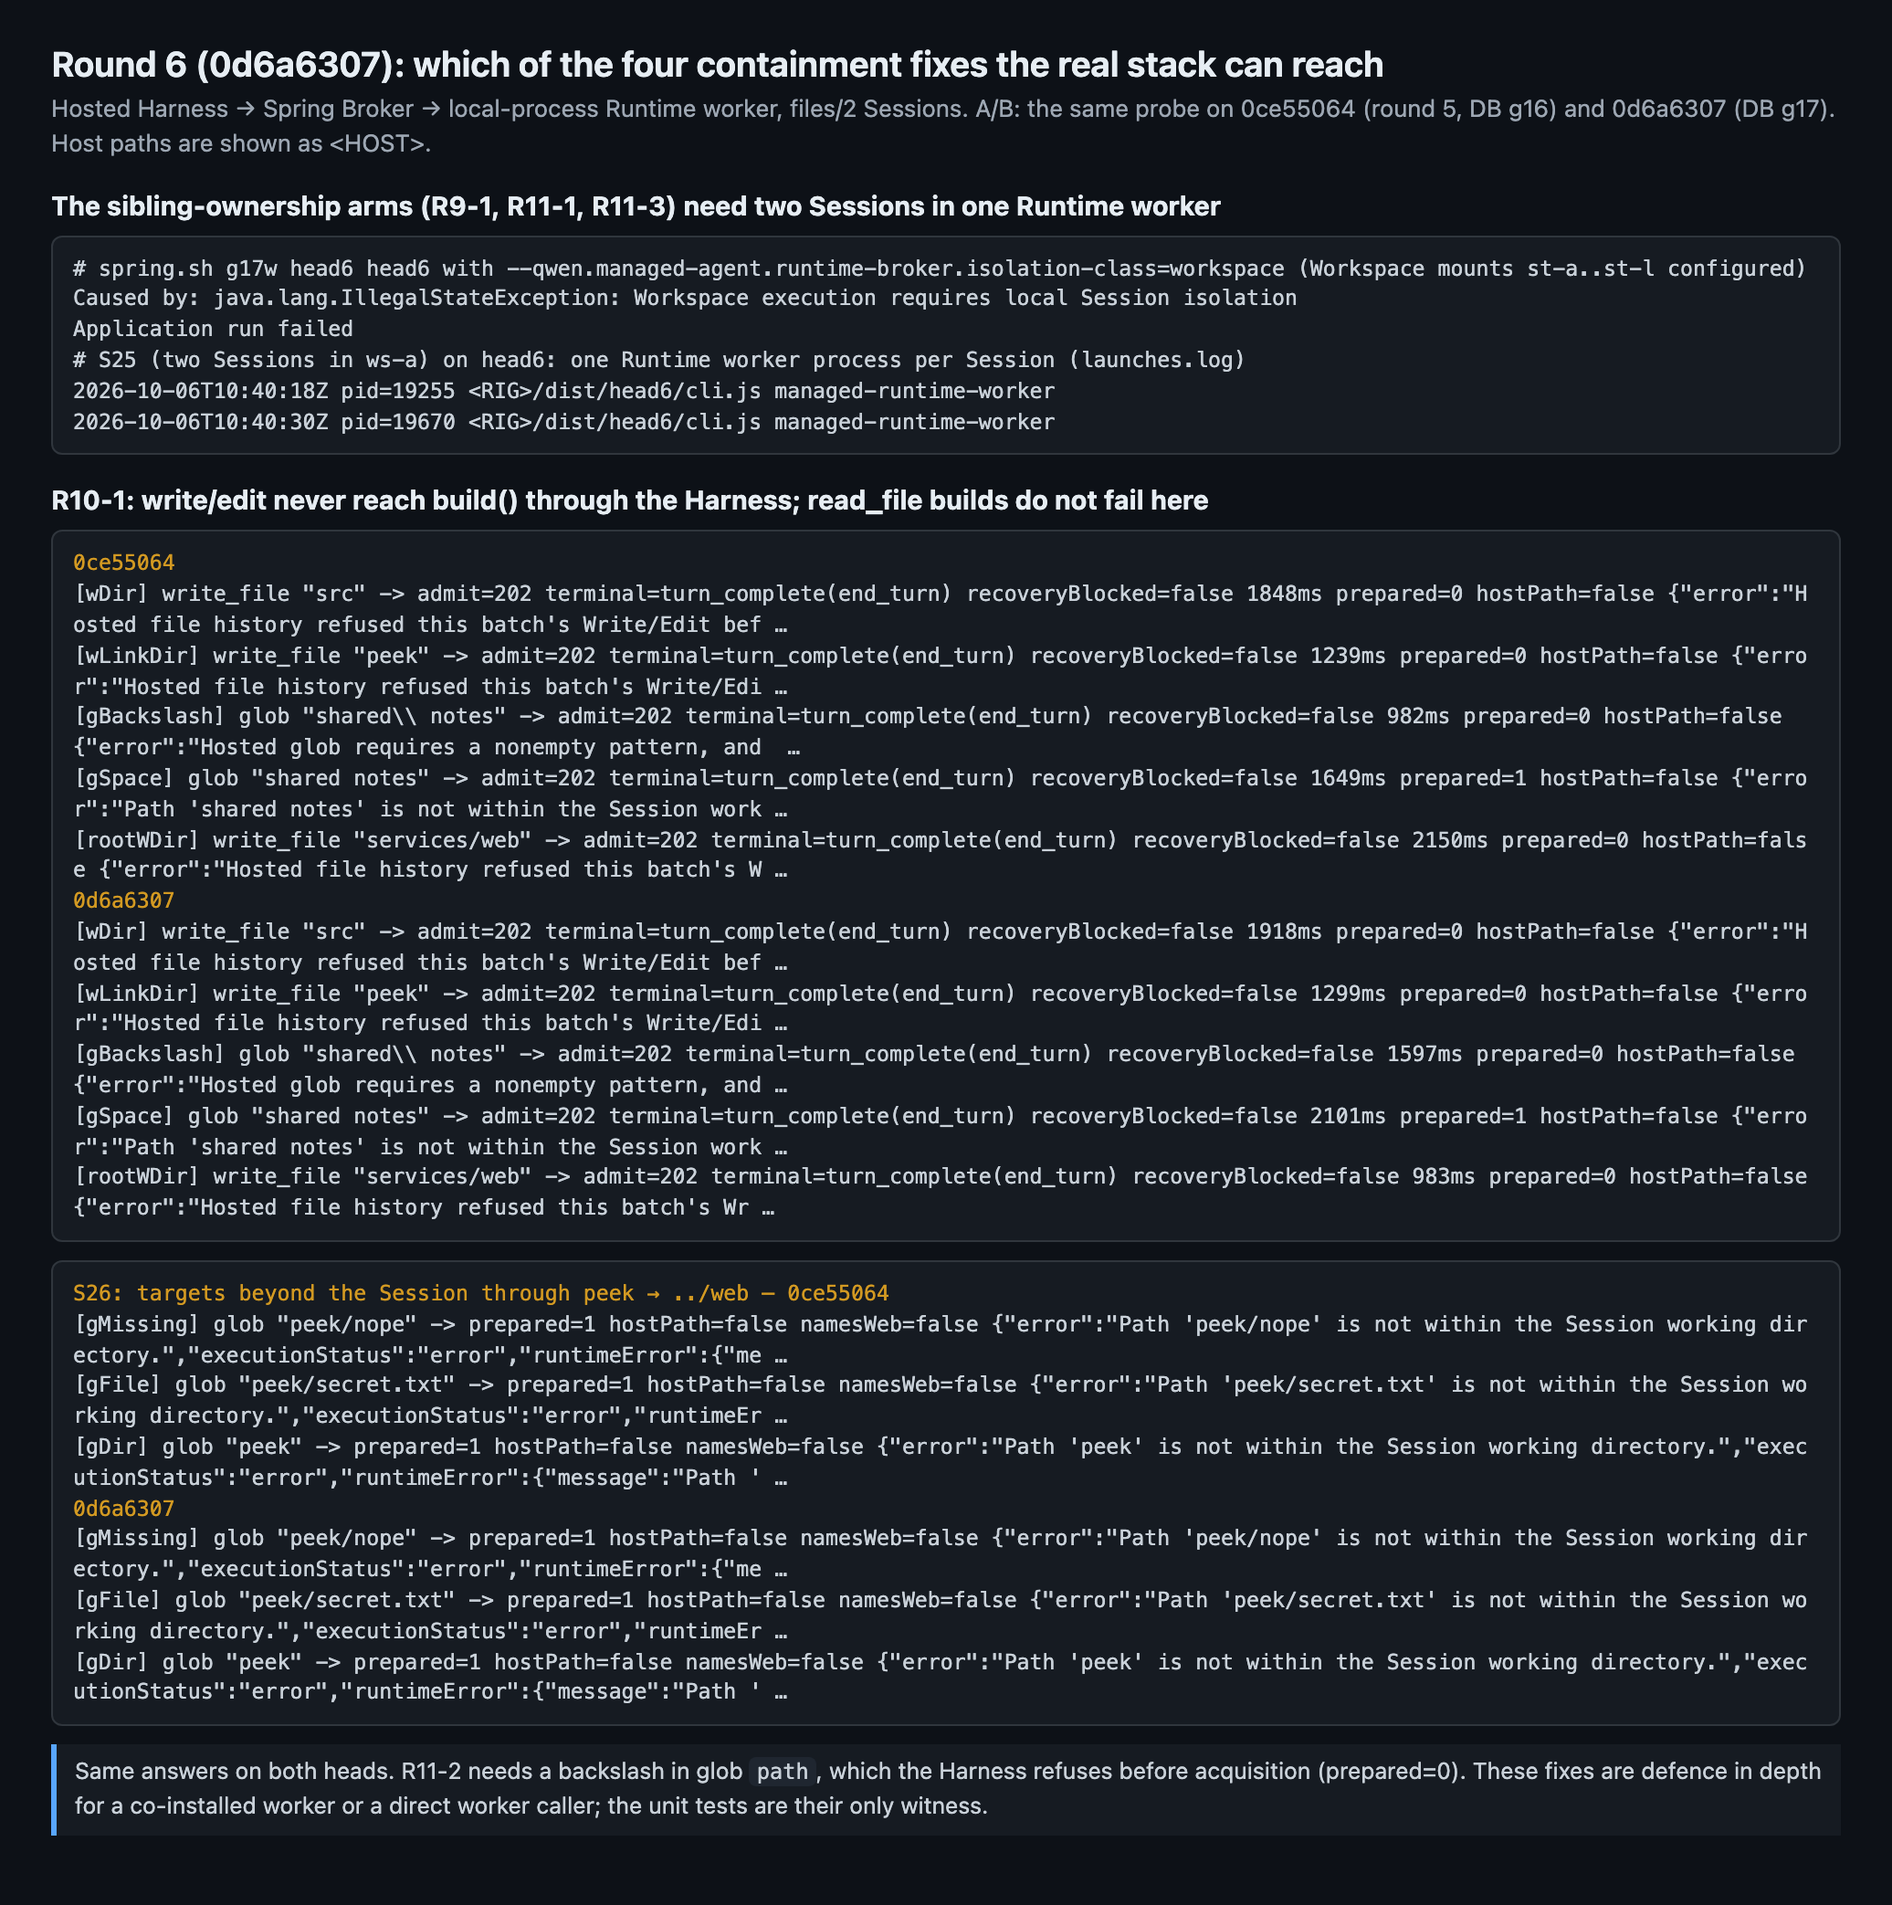
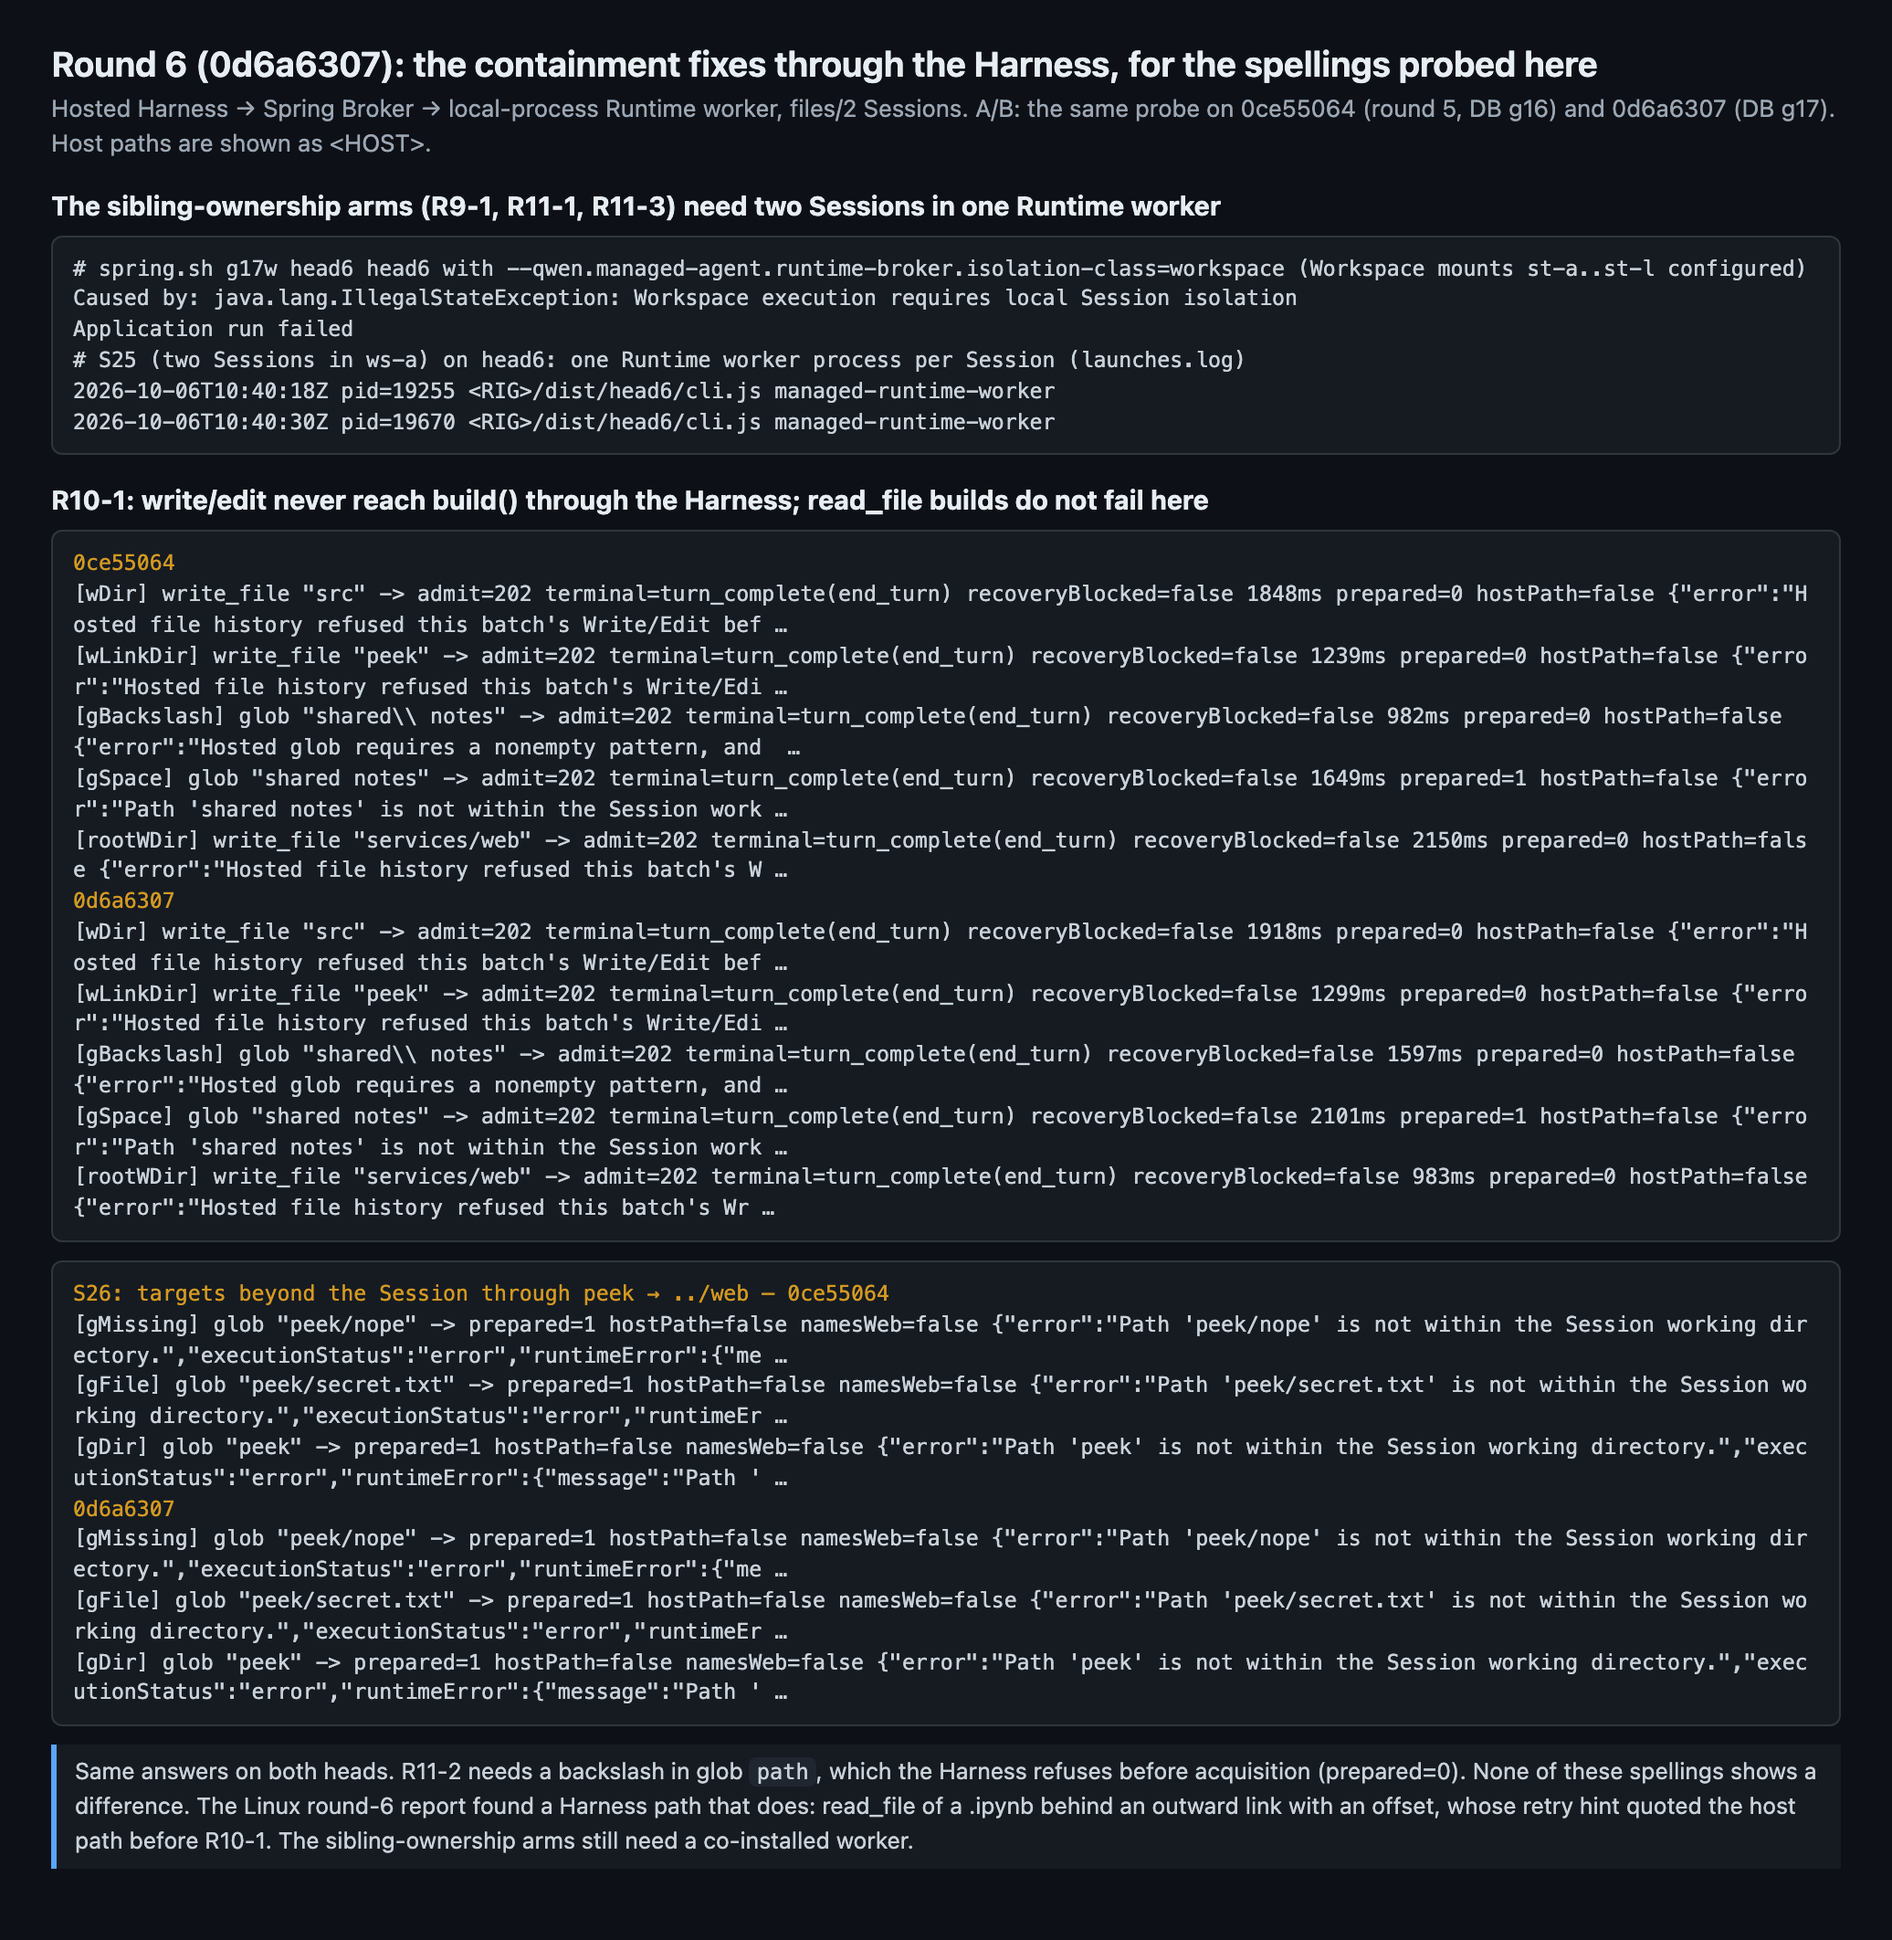
pr13166: round-6 figure 1 scoped to the probed spellings

Changed region(s): [[0.0309, 0.0312, 0.9575, 0.966], [0.8649, 0.1246, 0.9575, 0.1558]]

diff --git a/pr13166/r6/README.md b/pr13166/r6/README.md
@@ -6,7 +6,7 @@ Lockfile unchanged since round 5; bundle and jar (migrations to V45) rebuilt fro
 
 | File | What |
 | --- | --- |
-| `r6-01-reach.png` | Which round-6 fixes the Harness path can reach: Spring refuses `isolation-class=workspace` with Workspace mounts (`logs/g17w`), one worker per Session (`logs/g17/worker-launches.log`), S25/S26 A/B 0ce55064 (`logs/g16`) vs 0d6a6307 (`logs/g17`) |
+| `r6-01-reach.png` | The round-6 fixes through the Harness for the spellings probed here (the Linux round-6 report, issuecomment-6016671130, found a read_file .ipynb + offset path that reaches R10-1): Spring refuses `isolation-class=workspace` with Workspace mounts (`logs/g17w`), one worker per Session (`logs/g17/worker-launches.log`), S25/S26 A/B 0ce55064 (`logs/g16`) vs 0d6a6307 (`logs/g17`) |
 | `r6-02-hostpath.png` | Pre-existing: `read_file` not-found / directory errors keep the Runtime host path in `runtimeError.message` and the durable records (S25, S25b, S25c, S26) |
 | `r6-03-regression.png` | Regression on 0d6a6307, round-5 deadline/brace checks (S22, S19), mutation ledger (`logs/mutation`), R10b mutant bundle on the stack (`logs/g18`) |
 | `logs/r6-regression.log` | first regression pass (S5 with its original 3 s window, S6 with the pre-merge tool list) |
